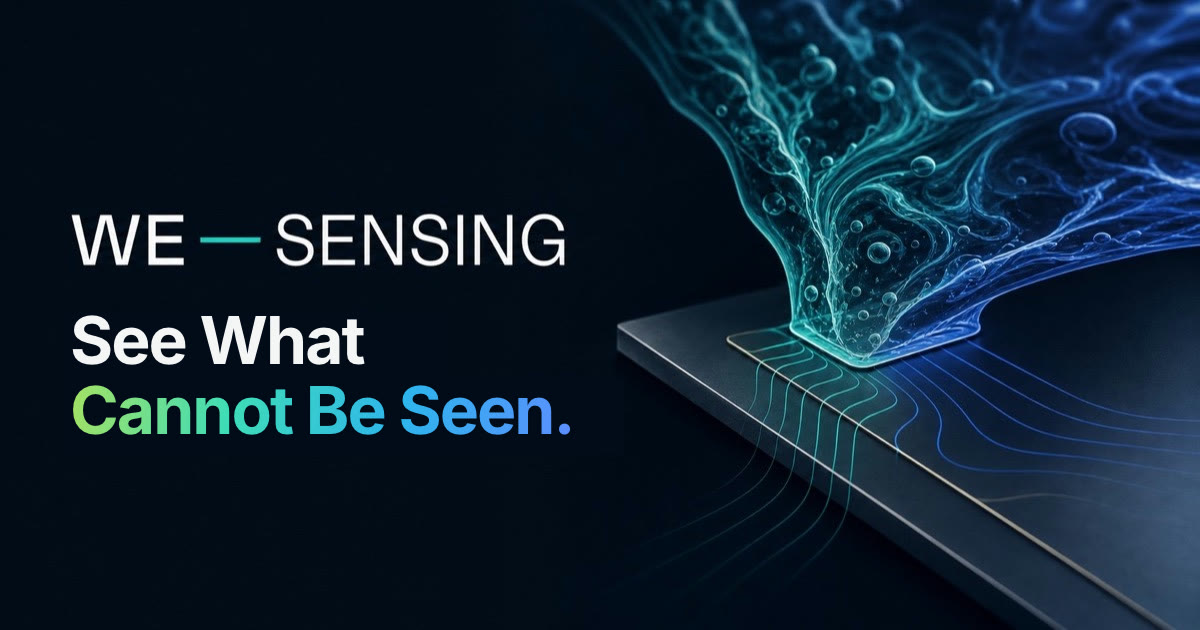
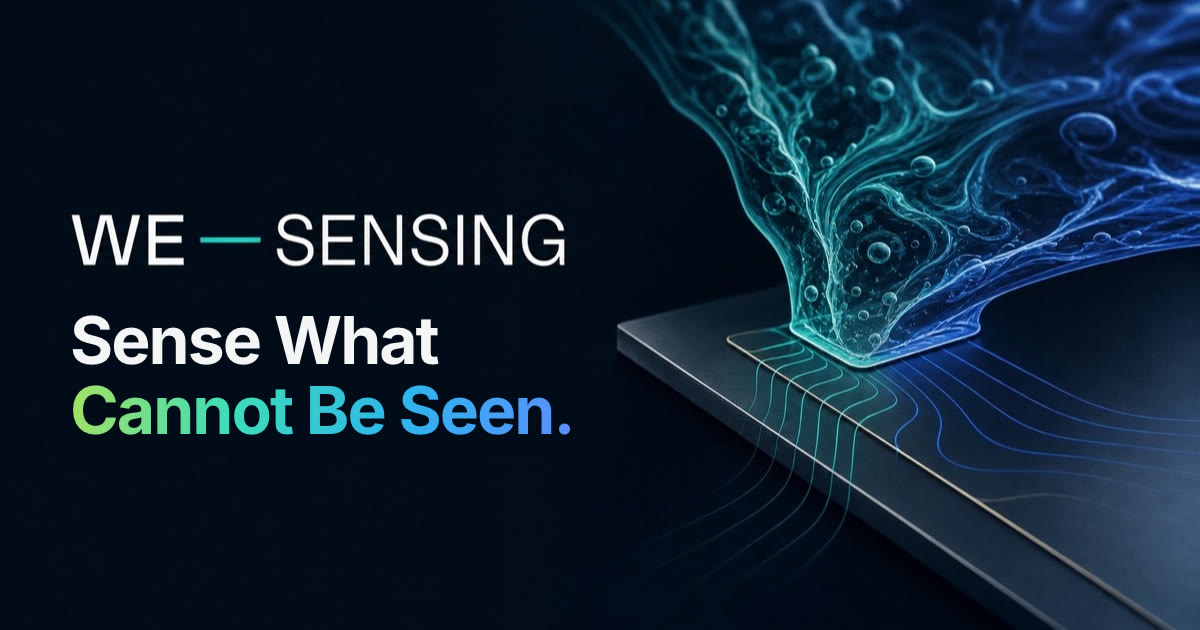
Change the slogan to "Sense What Cannot Be Seen."
Update the hero headline, footers, Squarespace shell, Open Graph
title and image alt text, the social share image, and the docs. The
social image URL is re-versioned so platforms refetch it.

Changed region(s): [[0.1233, 0.4825, 0.37, 0.6032]]

diff --git a/index.html b/index.html
@@ -5,16 +5,16 @@
   <meta name="viewport" content="width=device-width, initial-scale=1, viewport-fit=cover">
   <meta name="description" content="WE-Sensing develops advanced electrochemical sensing systems that reveal how complex water environments change over time.">
   <meta name="theme-color" content="#000000">
-  <meta property="og:title" content="WE-Sensing — See What Cannot Be Seen">
+  <meta property="og:title" content="WE-Sensing — Sense What Cannot Be Seen">
   <meta property="og:description" content="Advanced electrochemical sensing systems for complex water environments.">
   <meta property="og:type" content="website">
   <meta property="og:url" content="https://we-sensing.com/">
-  <meta property="og:image" content="https://we-sensing.com/assets/og/we-sensing-social.jpg?v=20261001">
-  <meta property="og:image:alt" content="WE-Sensing — See What Cannot Be Seen">
+  <meta property="og:image" content="https://we-sensing.com/assets/og/we-sensing-social.jpg?v=20261001b">
+  <meta property="og:image:alt" content="WE-Sensing — Sense What Cannot Be Seen">
   <meta property="og:image:width" content="1200">
   <meta property="og:image:height" content="630">
   <meta name="twitter:card" content="summary_large_image">
-  <meta name="twitter:image" content="https://we-sensing.com/assets/og/we-sensing-social.jpg?v=20261001">
+  <meta name="twitter:image" content="https://we-sensing.com/assets/og/we-sensing-social.jpg?v=20261001b">
   <title>WE-Sensing | Electrochemical sensing for complex water</title>
   <script>document.documentElement.classList.add('js');</script>
   <link rel="preconnect" href="https://fonts.googleapis.com">
@@ -64,7 +64,7 @@
 
       <div class="hero-copy page-width">
         <p class="hero-eyebrow"><span>Electrochemical intelligence</span><span>Complex fluids</span></p>
-        <h1 id="hero-title">See What <em>Cannot Be Seen.</em></h1>
+        <h1 id="hero-title">Sense What <em>Cannot Be Seen.</em></h1>
         <p class="hero-intro">WE-Sensing develops advanced electrochemical sensing systems that reveal how complex water environments change over time.</p>
         <div class="hero-actions">
           <a class="btn btn-primary" href="#workflow">Explore the sensing system</a>
@@ -544,7 +544,7 @@
         <a class="brand footer-brand" href="#top" aria-label="WE-Sensing home">
           <img class="brand-logo" src="assets/logos/web/we-sensing.webp" width="640" height="188" alt="" loading="lazy">
         </a>
-        <p class="footer-slogan">See What Cannot Be Seen.</p>
+        <p class="footer-slogan">Sense What Cannot Be Seen.</p>
       </div>
       <nav aria-label="Footer navigation"><a href="#water">Water sensing</a><a href="#technology">Technology</a><a href="./eva/" data-local-page="eva/index.html">EVA</a><a href="./company/" data-local-page="company/index.html">Company</a><a href="#contact">Contact</a></nav>
     </div>

diff --git a/company/index.html b/company/index.html
@@ -9,8 +9,8 @@
   <meta property="og:description" content="Meet the multidisciplinary team supporting WE-Sensing and EVA.">
   <meta property="og:type" content="website">
   <meta property="og:url" content="https://we-sensing.com/company">
-  <meta property="og:image" content="https://we-sensing.com/assets/og/we-sensing-social.jpg?v=20261001">
-  <meta property="og:image:alt" content="WE-Sensing — See What Cannot Be Seen">
+  <meta property="og:image" content="https://we-sensing.com/assets/og/we-sensing-social.jpg?v=20261001b">
+  <meta property="og:image:alt" content="WE-Sensing — Sense What Cannot Be Seen">
   <meta name="twitter:card" content="summary_large_image">
   <link rel="canonical" href="https://we-sensing.com/company">
   <title>Company and Team | WE-Sensing</title>
@@ -85,7 +85,7 @@
     <div class="page-width footer-top">
       <div class="footer-brand-block">
         <a class="brand footer-brand" href="../" data-local-page="../index.html" aria-label="WE-Sensing home"><img class="brand-logo" src="../assets/logos/web/we-sensing.webp" width="640" height="188" alt="" loading="lazy"></a>
-        <p class="footer-slogan">See What Cannot Be Seen.</p>
+        <p class="footer-slogan">Sense What Cannot Be Seen.</p>
       </div>
       <nav aria-label="Footer navigation"><a href="../#water" data-local-page="../index.html#water">Water sensing</a><a href="../#technology" data-local-page="../index.html#technology">Technology</a><a href="../eva/" data-local-page="../eva/index.html">EVA</a><a href="./" data-local-page="index.html" aria-current="page">Company</a><a href="../#contact" data-local-page="../index.html#contact">Contact</a></nav>
     </div>

diff --git a/eva/index.html b/eva/index.html
@@ -288,7 +288,7 @@
     <div class="page-width footer-top">
       <div class="footer-brand-block">
         <a class="brand footer-brand" href="../" data-local-page="../index.html" aria-label="WE-Sensing home"><img class="brand-logo" src="../assets/logos/web/we-sensing.webp" width="640" height="188" alt="" loading="lazy"></a>
-        <p class="footer-slogan">See What Cannot Be Seen.</p>
+        <p class="footer-slogan">Sense What Cannot Be Seen.</p>
       </div>
       <nav aria-label="Footer navigation"><a href="../#water" data-local-page="../index.html#water">Water sensing</a><a href="../#technology" data-local-page="../index.html#technology">Technology</a><a href="./" data-local-page="index.html" aria-current="page">EVA</a><a href="../company/" data-local-page="../company/index.html">Company</a><a href="../?inquiry=eva#contact" data-local-page="../index.html?inquiry=eva#contact">Contact</a></nav>
     </div>

diff --git a/IMPLEMENTATION_HANDOFF.md b/IMPLEMENTATION_HANDOFF.md
@@ -36,7 +36,7 @@ WE-Sensing (parent sensing technology company)
 ```
 
 - Do not combine water sensing and EVA in the homepage hero.
-- Preserve the corporate tagline: **“See What Cannot Be Seen.”**
+- Preserve the corporate tagline: **“Sense What Cannot Be Seen.”**
 - EVA is under development and is not presented as a clinically available product.
 - The exact EVA disclaimer must remain visible on the EVA page:
 
@@ -203,7 +203,7 @@ Review at 1440, 1024, 768, and 390 CSS pixels after visual changes. Do not add f
 The homepage layout is, in order:
 
 1. Fixed translucent global navigation (dark over dark sections, light elsewhere)
-2. Hero — the “See What Cannot Be Seen.” slogan over the live fluid/electrode canvas with its HUD labels
+2. Hero — the “Sense What Cannot Be Seen.” slogan over the live fluid/electrode canvas with its HUD labels
 3. Statement and core capabilities — “An integrated path from chemistry to context.” with four icons
 4. Water monitoring problem — sticky monitor story for Context, Continuity, and Interpretation
 5. Workflow — “From fluid to decision.” as a four-node signal pipeline
@@ -212,7 +212,7 @@ The homepage layout is, in order:
 8. EVA preview — separate from the hero, with pad/reader/application renders and a link to `/eva/`
 9. Company/team preview — team photograph and the three Co-Founders, populated by the centralized renderer
 10. Contact form
-11. Footer with the “See What Cannot Be Seen.” slogan
+11. Footer with the “Sense What Cannot Be Seen.” slogan
 
 The homepage is the primary visual and messaging surface. Preserve its Water and Technology content unless change scope specifically requires otherwise.
 
@@ -287,7 +287,7 @@ Long-form EVA copy remains duplicated between `eva/index.html` and `blocks/eva-p
 | EVA gallery | `assets/eva/web/` copies of `eva-pad`, `eva-pad-back`, `sensing-layer`, `logger-detach`, `starterkit`, `application` |
 | EVA technology visual | `assets/eva/web/eva-concept.webp` |
 | EVA hero / social visual | `assets/eva/eva-hero-product.webp` (teal elements recolored to the EVA rose palette in October 2026; the original is in Git history) and `assets/eva/eva-open-graph.webp` (still the earlier teal concept) |
-| Parent social visual | `assets/og/we-sensing-social.jpg` — tagline updated to “See What Cannot Be Seen.” (referenced with `?v=20261001` so platforms refresh their cached copy) |
+| Parent social visual | `assets/og/we-sensing-social.jpg` — tagline updated to “Sense What Cannot Be Seen.” (referenced with `?v=20261001` so platforms refresh their cached copy) |
 | Team portraits | `assets/team/web/{lowercase-full-name}.webp`; Alyssa Sharrow’s copy is defringed, and Fritz Sonnichsen’s is denoised with his shirt extended and feathered at the sides. Both use `portraitScale` in `team-data.js` so their faces match the other portraits |
 | Team-at-work image | `assets/team/team-at-work.webp` (1024w) and `assets/team/web/team-at-work-2000.webp` (2000w, exported from `background_img1.png`) via `srcset` |
 

diff --git a/ASSET_REPLACEMENT_GUIDE.md b/ASSET_REPLACEMENT_GUIDE.md
@@ -341,7 +341,7 @@ No placeholder biographies are displayed. The centralized data format supports a
 - **Recommended dimensions:** 1200 × 630 px
 - **Recommended format:** JPEG, sRGB, under 500 KB
 - **Transparent background required:** No
-- **Alt text:** “WE-Sensing — See What Cannot Be Seen”
+- **Alt text:** “WE-Sensing — Sense What Cannot Be Seen”
 - **Replacement priority:** Medium
 - **Replacement instructions:** Review brand accuracy, replace in place, and configure the same image in Squarespace social-sharing settings
 - **Code modifications required:** No if the path remains unchanged
